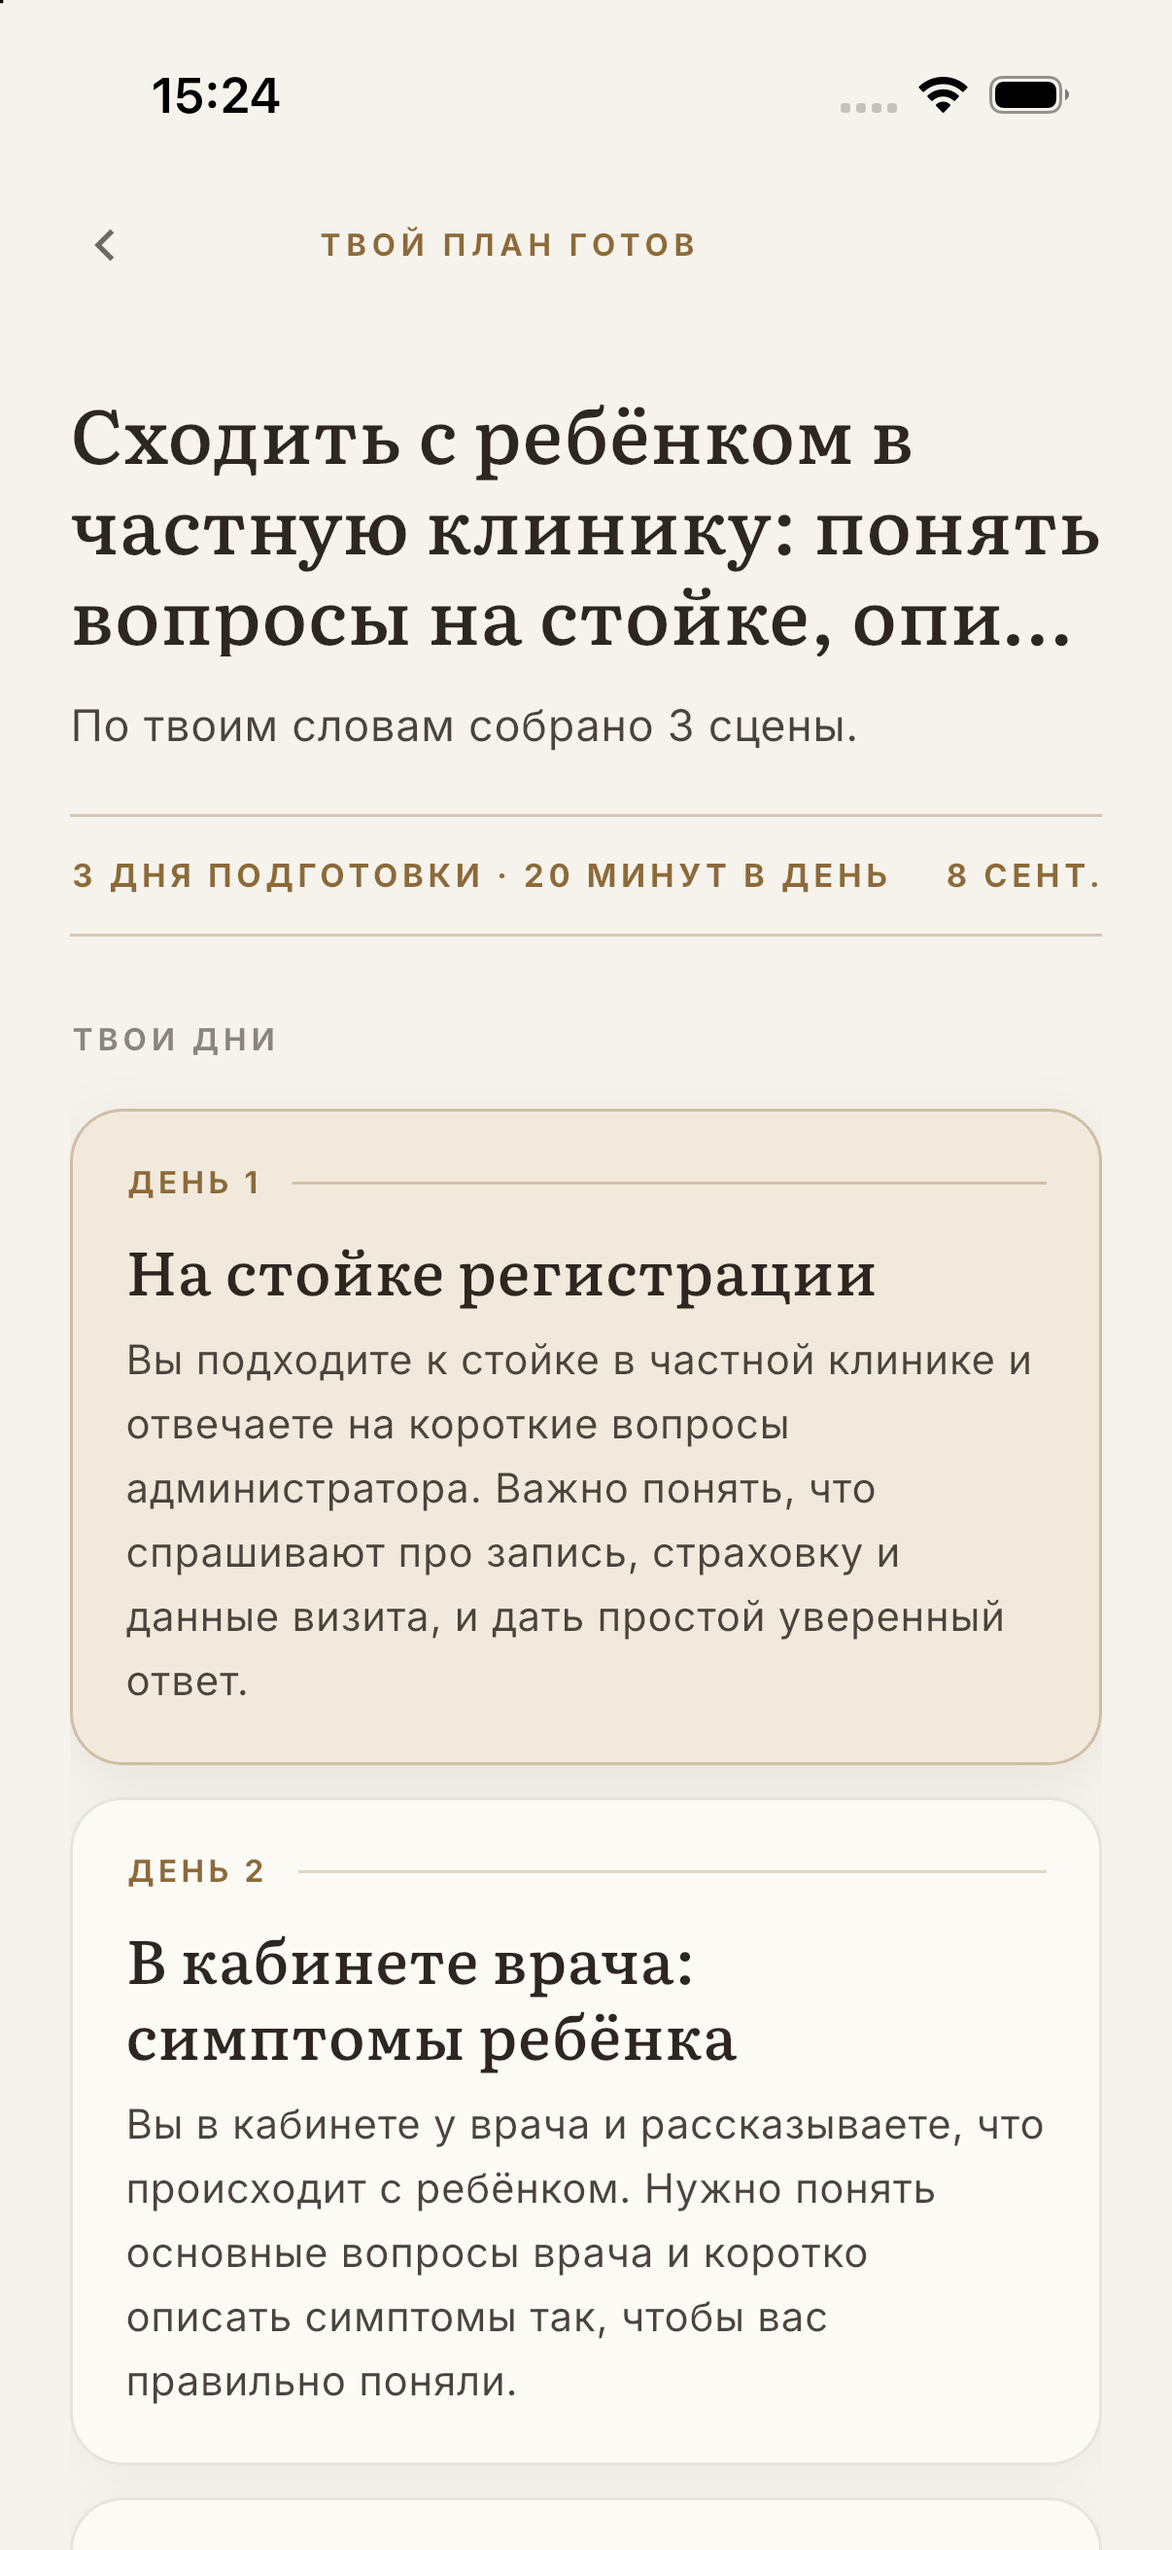
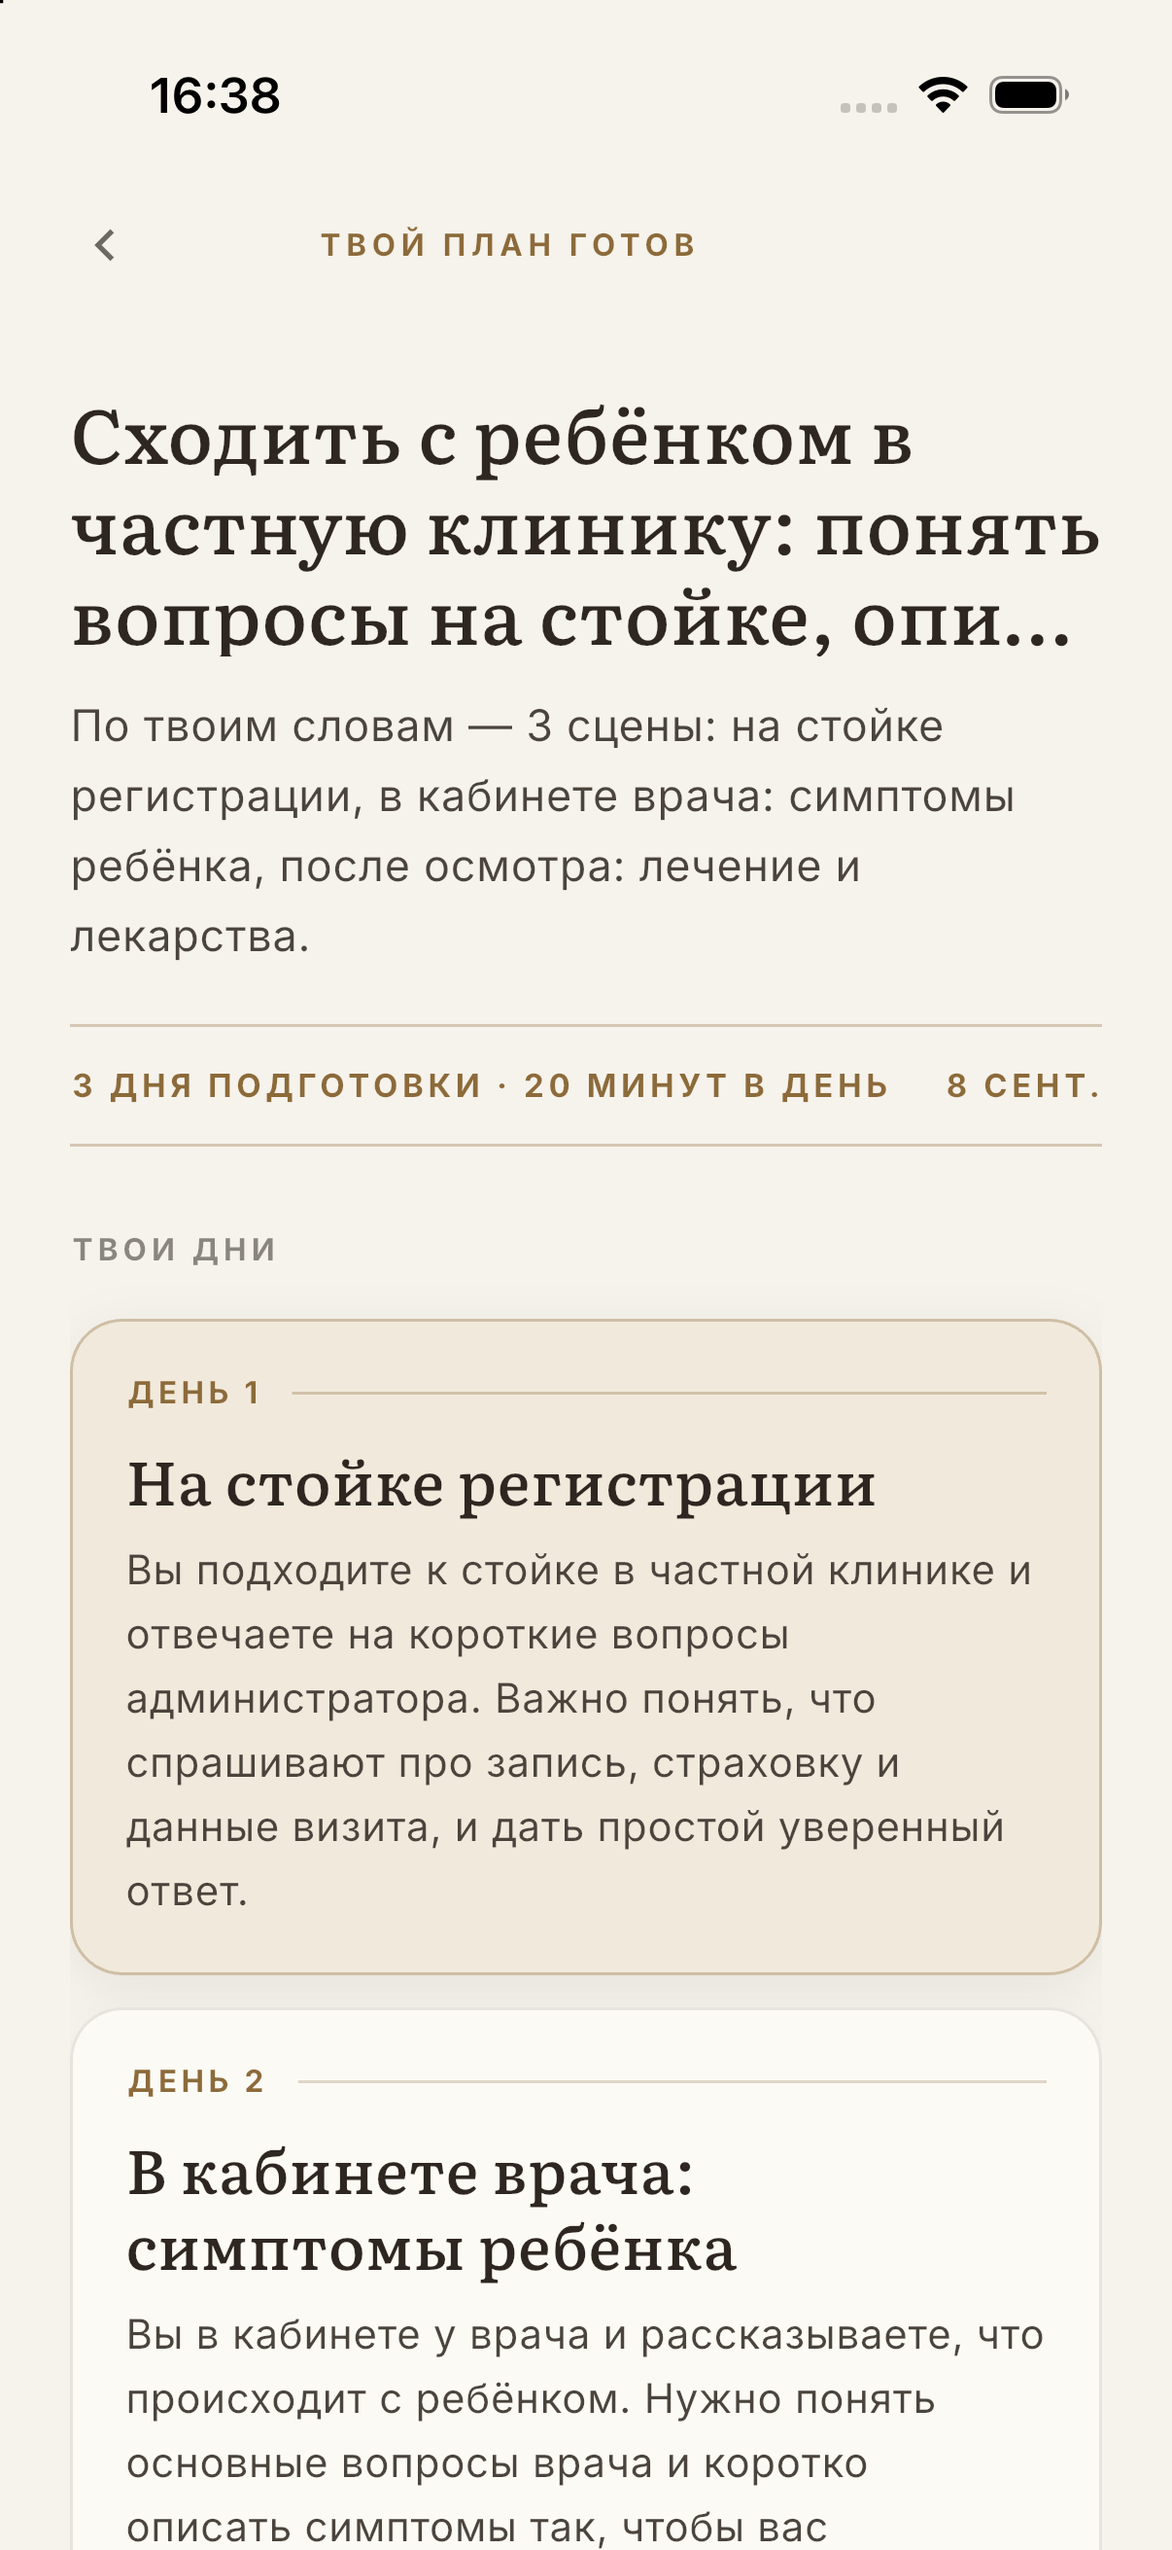
fix(preview): подзаголовок говорит темами сцен, а не пересказом цели
Правка владельца по дублю превью. Подзаголовок больше не берёт `goal_summary` от P1 — ни целиком,
ни в укороченном виде. Форма: «По твоим словам — N сцен: {названия первых трёх сцен через запятую,
с маленькой буквы}», как в каноне дизайна («Симптомы, страховка, назначение — …»): темы, а не
пересказ.

Три названия, а не все: план держит до четырнадцати сцен, и подзаголовок, перечисливший их все,
был бы лестницей ещё раз, абзацем. Финальный прогон в темы не идёт — он не сцена.

`goal_summary` остаётся в данных и никуда не девается: он нужен модели (это её собственный пересказ
того, о чём просили) и админке. На экран не едет вообще — `goalRestated` в приложении теперь не
читает ни один виджет.

Тест `превью говорит ТЕМАМИ, а не пересказом цели` держит главное: подзаголовок содержит названия
сцен с маленькой буквы и НЕ содержит цель ни в одной из двух её форм (`goal_text`,
`goal_restated`), а заголовком цель остаётся — единственным местом, где она стоит.

Скрин `docs/shots/entry2/14-preview-top.png` переснят: подзаголовок был устаревшим.

Ворота: `flutter analyze` чисто, `flutter test` 1206 зелёных.

diff --git a/mobile/test/features/plan/plan_screens_test.dart b/mobile/test/features/plan/plan_screens_test.dart
@@ -10,6 +10,7 @@ import 'package:eng_std/data/session_completion_sync.dart';
 import 'package:eng_std/features/plan/entry/plan_entry_screen.dart';
 import 'package:eng_std/features/plan/plan_day_screen.dart';
 import 'package:eng_std/features/plan/plan_day_summary.dart';
+import 'package:eng_std/features/plan/plan_preview_screen.dart';
 import 'package:eng_std/features/plan/plan_screen.dart';
 import 'package:eng_std/features/plan/plan_tab_screen.dart';
 import 'package:eng_std/l10n/app_localizations.dart';
@@ -272,6 +273,50 @@ void main() {
     final next = tester.widget<EntryCta>(find.byType(EntryCta));
     expect(next.enabled && next.onPressed != null, isTrue);
     expect(find.text('хватит для плана'), findsOneWidget);
+  });
+
+  testWidgets('превью говорит ТЕМАМИ, а не пересказом цели', (tester) async {
+    // Найдено живым прогоном 03.09: подзаголовок брал `goal_summary` от P1 — пересказ цели, — а
+    // заголовок экрана и есть цель, и превью говорило одно и то же дважды. Теперь подзаголовок
+    // называет число сцен и первые три названия с маленькой буквы; `goal_summary` остаётся в
+    // данных (он нужен модели и админке) и на экран не едет.
+    _tallPhone(tester);
+    final plan = LearningPlan.fromJson({
+      ..._planJson(),
+      'goal_text': 'Иду к врачу с ребёнком, надо объяснить симптомы и понять назначение',
+      'goal_restated':
+          'Сходить с ребёнком в частную клинику: понять вопросы на стойке и разобраться в назначении',
+      'days': [
+        {'id': 'd1', 'index': 1, 'kind': 'intro', 'title': 'На стойке регистрации'},
+        {'id': 'd2', 'index': 2, 'kind': 'intro', 'title': 'В кабинете врача'},
+        {'id': 'd3', 'index': 3, 'kind': 'intro', 'title': 'После осмотра'},
+        {'id': 'd4', 'index': 4, 'kind': 'final', 'title': 'Прогон перед событием'},
+      ],
+    });
+
+    await tester.pumpWidget(
+      ProviderScope(child: _app(PlanPreviewScreen(plan: plan))),
+    );
+    await tester.pumpAndSettle();
+
+    final subtitle = tester
+        .widgetList<Text>(find.textContaining('По твоим словам', skipOffstage: false))
+        .map((t) => t.data ?? '')
+        .single;
+
+    // Темы — названия сцен, с маленькой буквы, первые три.
+    expect(subtitle, contains('3 сцены'));
+    expect(subtitle, contains('на стойке регистрации'));
+    expect(subtitle, contains('в кабинете врача'));
+    expect(subtitle, contains('после осмотра'));
+    // Прогон — не сцена и в темы не попадает.
+    expect(subtitle, isNot(contains('прогон')));
+
+    // ГЛАВНОЕ: цели в подзаголовке нет ни в одной из двух её форм.
+    expect(subtitle, isNot(contains(plan.goalText)));
+    expect(subtitle, isNot(contains(plan.goalRestated!)));
+    // …а заголовком она остаётся, и это не дубль, а единственное место, где она стоит.
+    expect(find.text(plan.title), findsOneWidget);
   });
 
   testWidgets('the empty План tab explains the difference from a collection', (tester) async {

diff --git a/mobile/lib/features/plan/plan_preview_screen.dart b/mobile/lib/features/plan/plan_preview_screen.dart
@@ -65,6 +65,32 @@ class _PlanPreviewScreenState extends ConsumerState<PlanPreviewScreen> {
   List<PlanDay> get _scenes =>
       _plan.days.where((d) => d.kind == PlanDayKind.intro).toList(growable: false);
 
+  /// «на стойке регистрации, в кабинете врача, после осмотра» — the plan's TOPICS.
+  ///
+  /// The subtitle of the preview says what the plan is ABOUT, and the honest answer to that is the
+  /// names of its scenes. It is deliberately NOT `goal_summary`: P1 writes that as a restatement of
+  /// the goal, the title above already IS the goal, and the live preview of 03.09 said the same
+  /// sentence twice — six lines of serif and then the same six lines again, in grey.
+  ///
+  /// `goal_summary` is not lost, it is just not on this screen: the model needs it (it is the
+  /// skeleton's own summary of what it was asked for) and so does the back office.
+  ///
+  /// THREE, and lowercased. Three because a plan may hold up to fourteen scenes and a subtitle that
+  /// listed them all would be the ladder again, in a paragraph; lowercased because these are the
+  /// middle of a sentence here and their own headline in the cards below.
+  String _topics() {
+    final titles = _scenes
+        .map((s) => s.title.trim())
+        .where((t) => t.isNotEmpty)
+        .take(3)
+        .map(_lowerFirst);
+
+    return titles.join(', ');
+  }
+
+  static String _lowerFirst(String text) =>
+      text.isEmpty ? text : text[0].toLowerCase() + text.substring(1);
+
   Future<void> _mutate(Future<LearningPlan> Function(ApiClient api) call) async {
     if (_busy) return;
     AppHaptics.light();
@@ -248,11 +274,11 @@ class _PlanPreviewScreenState extends ConsumerState<PlanPreviewScreen> {
                             ),
                             const SizedBox(height: 12),
                             Text(
-                              // «По твоим словам…» and NOT the goal again: the title above already
-                              // is the goal, and the live preview said the same sentence twice.
+                              // «По твоим словам — N сцен: темы» and NEVER the goal again: the
+                              // title above already is the goal ({@see _topics}).
                               _dated
-                                  ? l.planPreviewSubtitle(scenes.length)
-                                  : l.planPreviewSubtitleNoDate(scenes.length),
+                                  ? l.planPreviewSubtitle(scenes.length, _topics())
+                                  : l.planPreviewSubtitleNoDate(scenes.length, _topics()),
                               style: AppText.translation.copyWith(
                                 fontSize: 15,
                                 height: 1.6,

diff --git a/mobile/lib/l10n/app_localizations.dart b/mobile/lib/l10n/app_localizations.dart
@@ -5217,17 +5217,17 @@ abstract class AppLocalizations {
   /// **'Твой план готов'**
   String get planPreviewKicker;
 
-  /// Подзаголовок превью. Пересказа цели в нём НЕТ: заголовок экрана и есть цель, и повторять её строкой ниже — говорить одно и то же дважды (найдено живым прогоном 03.09).
+  /// Подзаголовок превью — ТЕМЫ, а не пересказ цели: число сцен и названия первых трёх с маленькой буквы. Цели в нём нет вовсе: заголовок экрана и есть цель, и повторять её строкой ниже — говорить одно и то же дважды (живой прогон 03.09). `goal_summary` от P1 остаётся в данных для модели и админки и на экран не едет.
   ///
   /// In ru, this message translates to:
-  /// **'По твоим словам собрано {scenes, plural, one{{scenes} сцена} few{{scenes} сцены} many{{scenes} сцен} other{{scenes} сцены}}.'**
-  String planPreviewSubtitle(int scenes);
+  /// **'По твоим словам — {scenes, plural, one{{scenes} сцена} few{{scenes} сцены} many{{scenes} сцен} other{{scenes} сцены}}: {topics}.'**
+  String planPreviewSubtitle(int scenes, String topics);
 
   /// То же без даты (кадр V4·06б).
   ///
   /// In ru, this message translates to:
-  /// **'По твоим словам собрано {scenes, plural, one{{scenes} сцена} few{{scenes} сцены} many{{scenes} сцен} other{{scenes} сцены}}. Даты нет, идём в своём темпе.'**
-  String planPreviewSubtitleNoDate(int scenes);
+  /// **'По твоим словам — {scenes, plural, one{{scenes} сцена} few{{scenes} сцены} many{{scenes} сцен} other{{scenes} сцены}}: {topics}. Даты нет, идём в своём темпе.'**
+  String planPreviewSubtitleNoDate(int scenes, String topics);
 
   /// Моноширинная строка-ориентир превью с датой.
   ///

diff --git a/mobile/lib/l10n/app_localizations_ru.dart b/mobile/lib/l10n/app_localizations_ru.dart
@@ -3570,7 +3570,7 @@ class AppLocalizationsRu extends AppLocalizations {
   String get planPreviewKicker => 'Твой план готов';
 
   @override
-  String planPreviewSubtitle(int scenes) {
+  String planPreviewSubtitle(int scenes, String topics) {
     String _temp0 = intl.Intl.pluralLogic(
       scenes,
       locale: localeName,
@@ -3579,11 +3579,11 @@ class AppLocalizationsRu extends AppLocalizations {
       few: '$scenes сцены',
       one: '$scenes сцена',
     );
-    return 'По твоим словам собрано $_temp0.';
+    return 'По твоим словам — $_temp0: $topics.';
   }
 
   @override
-  String planPreviewSubtitleNoDate(int scenes) {
+  String planPreviewSubtitleNoDate(int scenes, String topics) {
     String _temp0 = intl.Intl.pluralLogic(
       scenes,
       locale: localeName,
@@ -3592,7 +3592,7 @@ class AppLocalizationsRu extends AppLocalizations {
       few: '$scenes сцены',
       one: '$scenes сцена',
     );
-    return 'По твоим словам собрано $_temp0. Даты нет, идём в своём темпе.';
+    return 'По твоим словам — $_temp0: $topics. Даты нет, идём в своём темпе.';
   }
 
   @override

diff --git a/mobile/lib/l10n/app_localizations_en.dart b/mobile/lib/l10n/app_localizations_en.dart
@@ -3418,25 +3418,25 @@ class AppLocalizationsEn extends AppLocalizations {
   String get planPreviewKicker => 'Your plan is ready';
 
   @override
-  String planPreviewSubtitle(int scenes) {
+  String planPreviewSubtitle(int scenes, String topics) {
     String _temp0 = intl.Intl.pluralLogic(
       scenes,
       locale: localeName,
       other: '$scenes scenes',
       one: '$scenes scene',
     );
-    return 'From your own words: $_temp0.';
+    return 'From your own words — $_temp0: $topics.';
   }
 
   @override
-  String planPreviewSubtitleNoDate(int scenes) {
+  String planPreviewSubtitleNoDate(int scenes, String topics) {
     String _temp0 = intl.Intl.pluralLogic(
       scenes,
       locale: localeName,
       other: '$scenes scenes',
       one: '$scenes scene',
     );
-    return 'From your own words: $_temp0. No date, so we go at your own pace.';
+    return 'From your own words — $_temp0: $topics. No date, so we go at your own pace.';
   }
 
   @override
